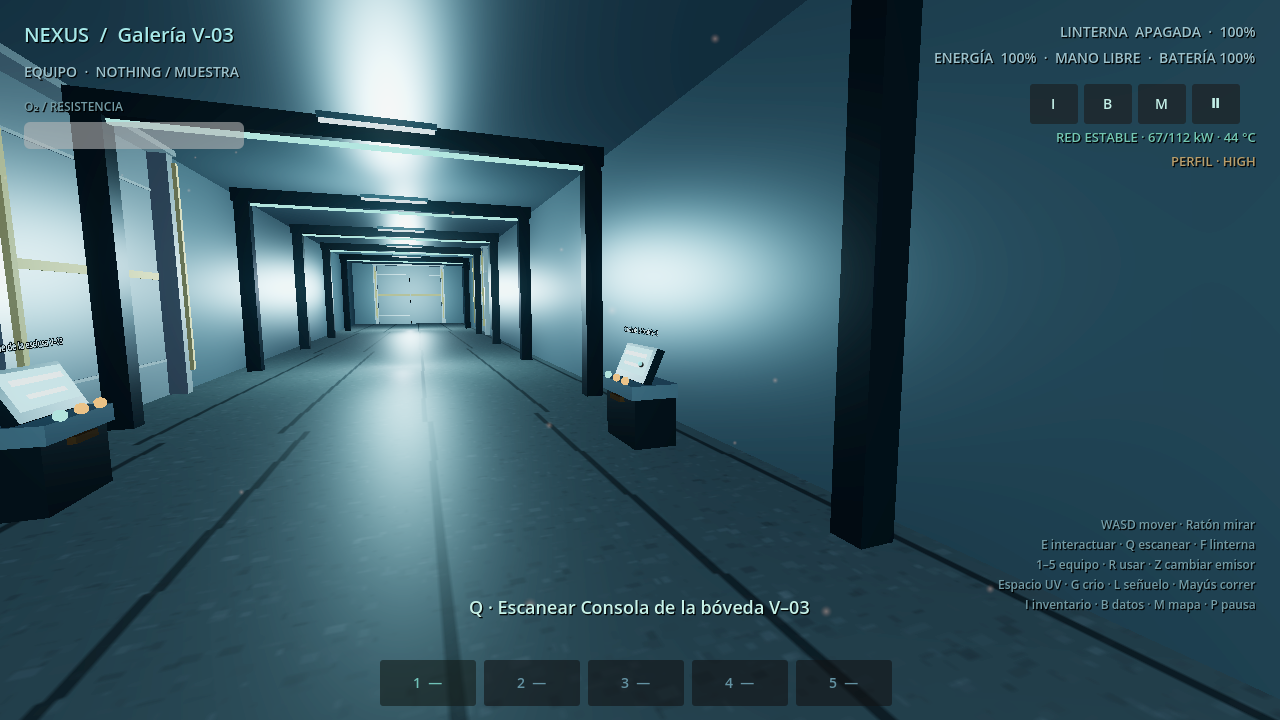
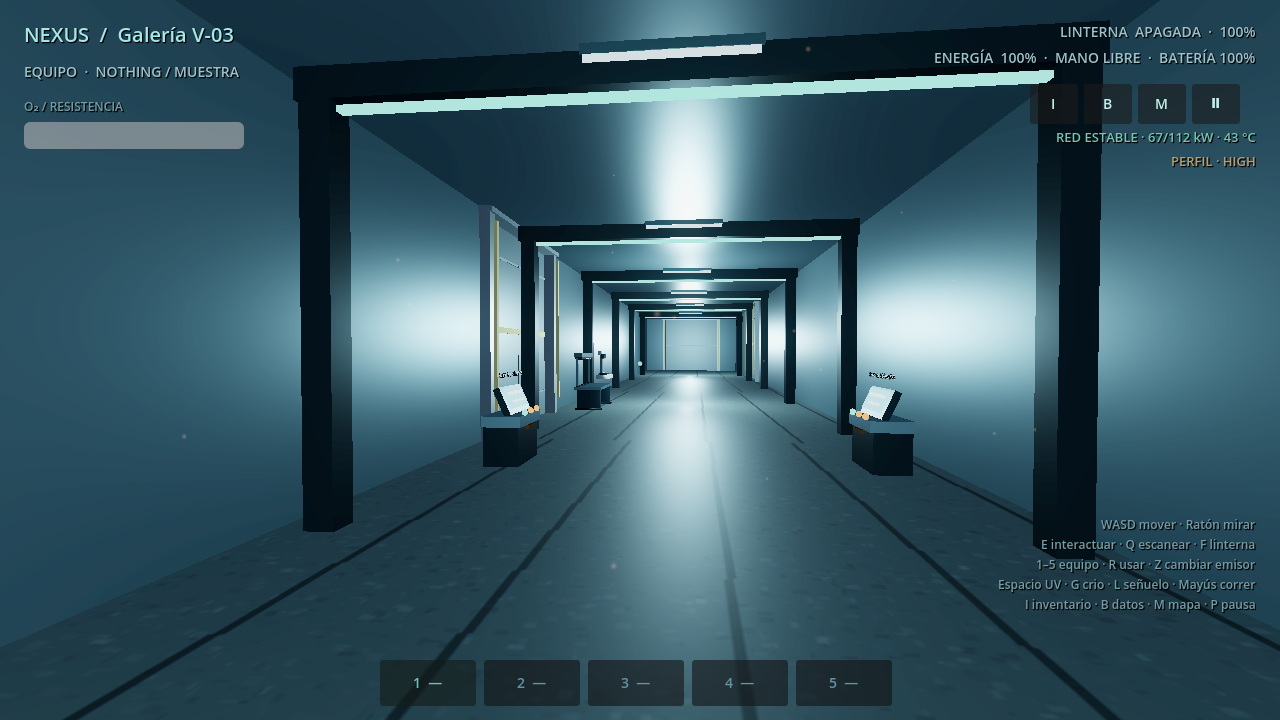
Fase 29: tornos y plano de transit.glb, puesto de control de vault.glb y vista del hub

diff --git a/docs/migration/PHASE_29_TRANSIT_AND_STATIONS.md b/docs/migration/PHASE_29_TRANSIT_AND_STATIONS.md
@@ -1,0 +1,57 @@
+# Fase 29 · Tránsito y puestos originales
+
+Segunda tanda de modelos de `source-batch` conectados al juego. La primera
+(fase 28) llevó los vasos de H–01 y la puerta de la bóveda.
+
+## `vault.glb` · puesto de control de la galería
+
+| grupo | medida original | uso |
+|---|---|---|
+| `Node83` | 3,25 × 2,54 × 1,25 | `GalleryDesk`, el mostrador del puesto de V–03 |
+| `Node89` | 1,15 × 1,35 × 0,63 | `GalleryTerminal`, la consola sobre el mostrador |
+
+Van a escala 0,62 —la galería tiene 8 m de ancho— arrimados al muro oeste a la
+altura de z = −52, girados 90° para mirar al eje.
+
+## `transit.glb` · hub L–01
+
+`transit.glb` no trae una cápsula: trae **la estación entera**, con módulos de
+41 × 8,7 × 50 m cada 50 m a lo largo del eje. Del lote se aprovechan las piezas
+que sí encajan en la nave nativa:
+
+- `Node4` y `Node9` → `Torno1` y `Torno2`, los dos tornos de acceso de 4,02 ×
+  5,36 × 0,56 m, colocados a los lados del andén (10 · 90 y 10 · 104).
+- `Node14` → `PlanoEje`, el plano de líneas de 8,55 m que se monta en el muro
+  oeste de la nave a escala 1,6.
+
+La cápsula sigue siendo procedural (`CapsuleShell`): no hay modelo de cápsula en
+la web, el vehículo del andén se construye en `Transit.ts` con primitivas.
+
+## Vista nueva
+
+`qa/capture_zones.gd` gana la vista de `transit_hub` —(0 · 86) mirando a
+(16 · 1,8 · 104), con los tornos a la izquierda y la cápsula al fondo— y la de la
+galería se reencuadra para enseñar el eje completo con los dos puestos laterales.
+
+## QA
+
+`validate_dressing` sube de 116 a **120 checks**: tornos, plano del eje, puesto
+y terminal. Totales: **2018 checks, 0 fallos**.
+
+```
+run_suite 335 · layouts 65 · dressing 120 · files 33 · vault 53 · bench 51
+operations 77 · transit 154 · experience 139 · camera 113 · session 95
+displays 89 · w01_ai 66 · power_grid 45 · traversal 255 · zone_graph 303
+game_state 17 · resume 8
+```
+
+Hoja de las diez zonas: `reports/phase29-ingame.png`.
+
+## Siguientes modelos por conectar
+
+1. `vehicle.glb` (2,25 × 1,68 × 4,6) en `transit_road`.
+2. Los puestos `Node64`, `Node97`, `Node98`, `Node99` de `vault.glb` (consolas
+   de 1–2 m) para la crioteca y el archivo.
+3. `instrument_0/1/2.glb` (14–38 cm): son los instrumentos de guante, van con el
+   sistema de `Glove.ts`, no con el mobiliario.
+4. Un módulo de `transit.glb` a escala 0,5 en el hub para cerrar la estación.

diff --git a/docs/migration/MIGRATION_PROGRESS.md b/docs/migration/MIGRATION_PROGRESS.md
@@ -108,6 +108,11 @@ Actualizado: 2026-11-24. La migración continúa en `/home/user/NEXUS-Native`; l
 - `Environment` con ACES + glow + SSAO, `DirectionalLight3D` `#a6caff`, suelo con la textura de `createFloorTexture()` (repetida cada 12 m), relleno de luz por sala con rebote a 0,7 m y polvo biológico de `Effects.ts`.
 - Capturas con `--rendering-method mobile` (llvmpipe no da para Forward+): nueve zonas y hoja `reports/phase28-ingame.png`. Detalle en `PHASE_28_ORIGINAL_MODELS.md`.
 
+## Fase 29 · Tránsito y puestos originales
+- `vault.glb`: `Node83` y `Node89` son ya el mostrador y el terminal del puesto de control de la galería V–03 (escala 0,62).
+- `transit.glb`: `Node4`/`Node9` van a los dos tornos del hub L–01 y `Node14` al plano del eje; la cápsula sigue procedural porque la web la construye con primitivas.
+- Vista nueva de `transit_hub` en `qa/capture_zones.gd` (diez zonas) y hoja `reports/phase29-ingame.png`. `validate_dressing` 116 → **120 checks**; total **2018 checks**, 0 fallos. Detalle en `PHASE_29_TRANSIT_AND_STATIONS.md`.
+
 ## Siguiente bloque de trabajo
 0. Ver `docs/migration/PARITY_WEB_NATIVE.md` para la comparación módulo a módulo con la web v15.1.
 1. Verificar y ajustar el HUD/touch y el mapa en una build visible de Android.
